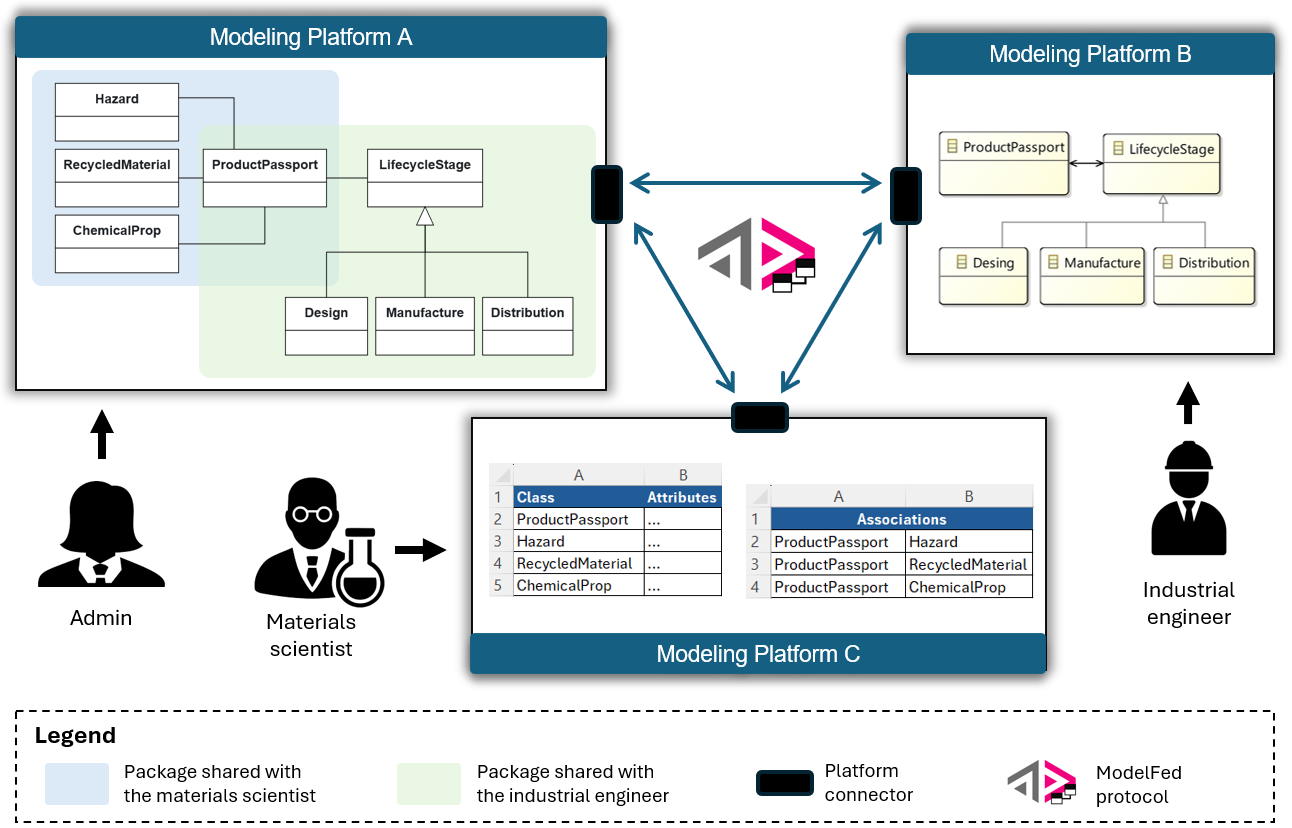
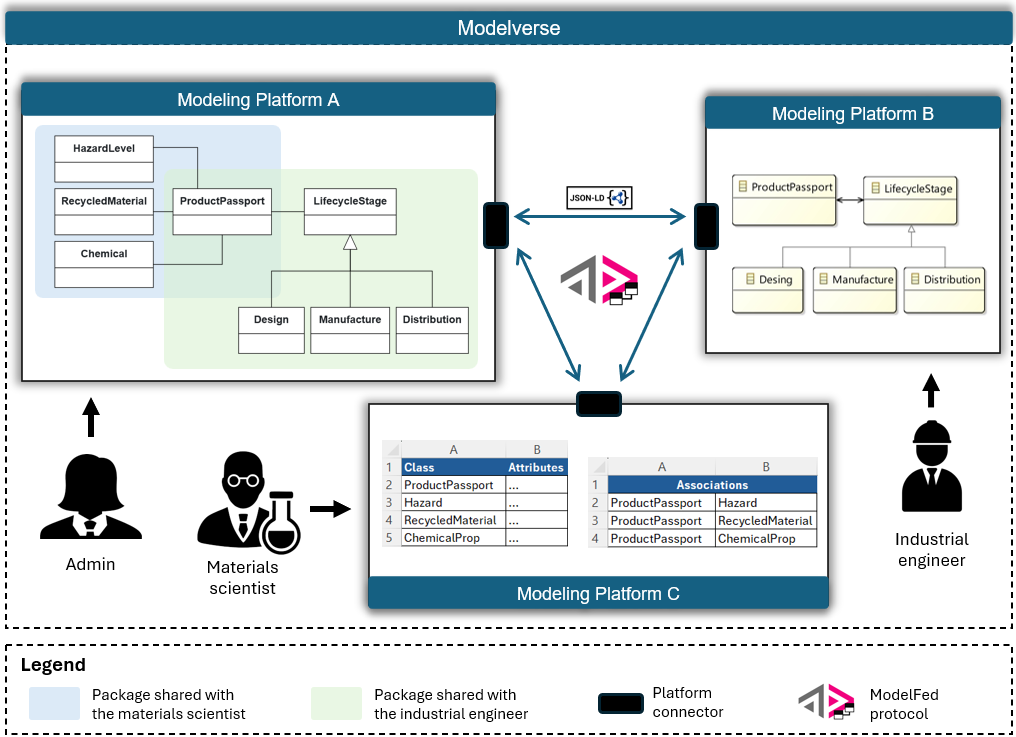
Update HazardLevel class name in the DPP domain model

diff --git a/validation/exp_1_DPP_scenario/output_model/dpp_besser_model.py b/validation/exp_1_DPP_scenario/output_model/dpp_besser_model.py
@@ -11,6 +11,9 @@ from besser.BUML.metamodel.structural import (
 # Enumerations
 # Classes
 ProductPassport = Class(name="ProductPassport")
+HazardLevel = Class(name="HazardLevel")
+RecycledMaterial = Class(name="RecycledMaterial")
+ChemicalProp = Class(name="ChemicalProp")
 LifecycleStage = Class(name="LifecycleStage")
 Design = Class(name="Design")
 Manufacture = Class(name="Manufacture")
@@ -19,21 +22,35 @@ Collect = Class(name="Collect")
 Recycle = Class(name="Recycle")
 Reparation = Class(name="Reparation")
 Distribution = Class(name="Distribution")
-Hazard = Class(name="Hazard")
-RecycledMaterial = Class(name="RecycledMaterial")
-ChemicalProp = Class(name="ChemicalProp")
 
 # ProductPassport class attributes and methods
 ProductPassport_name: Property = Property(name="name", type=StringType)
 ProductPassport_code: Property = Property(name="code", type=StringType)
 ProductPassport_UID: Property = Property(name="UID", type=StringType)
-ProductPassport.attributes={ProductPassport_code, ProductPassport_UID, ProductPassport_name}
+ProductPassport.attributes={ProductPassport_code, ProductPassport_name, ProductPassport_UID}
+
+# HazardLevel class attributes and methods
+HazardLevel_very_high: Property = Property(name="very_high", type=BooleanType)
+HazardLevel_exed_limit: Property = Property(name="exed_limit", type=BooleanType)
+HazardLevel.attributes={HazardLevel_very_high, HazardLevel_exed_limit}
+
+# RecycledMaterial class attributes and methods
+RecycledMaterial_preconsumer: Property = Property(name="preconsumer", type=StringType)
+RecycledMaterial_postconsumer: Property = Property(name="postconsumer", type=StringType)
+RecycledMaterial_renewable: Property = Property(name="renewable", type=StringType)
+RecycledMaterial.attributes={RecycledMaterial_preconsumer, RecycledMaterial_postconsumer, RecycledMaterial_renewable}
+
+# ChemicalProp class attributes and methods
+ChemicalProp_threshold: Property = Property(name="threshold", type=FloatType)
+ChemicalProp_disclosure: Property = Property(name="disclosure", type=StringType)
+ChemicalProp_composition: Property = Property(name="composition", type=StringType)
+ChemicalProp.attributes={ChemicalProp_disclosure, ChemicalProp_threshold, ChemicalProp_composition}
 
 # LifecycleStage class attributes and methods
 LifecycleStage_name: Property = Property(name="name", type=StringType)
 LifecycleStage_start: Property = Property(name="start", type=DateType)
 LifecycleStage_end: Property = Property(name="end", type=DateType)
-LifecycleStage.attributes={LifecycleStage_start, LifecycleStage_end, LifecycleStage_name}
+LifecycleStage.attributes={LifecycleStage_start, LifecycleStage_name, LifecycleStage_end}
 
 # Design class attributes and methods
 
@@ -48,28 +65,32 @@ LifecycleStage.attributes={LifecycleStage_start, LifecycleStage_end, LifecycleSt
 # Reparation class attributes and methods
 Reparation_description: Property = Property(name="description", type=StringType)
 Reparation_date_set: Property = Property(name="date_set", type=DateType)
-Reparation.attributes={Reparation_date_set, Reparation_description}
+Reparation.attributes={Reparation_description, Reparation_date_set}
 
 # Distribution class attributes and methods
 
-# Hazard class attributes and methods
-Hazard_very_high: Property = Property(name="very_high", type=BooleanType)
-Hazard_exed_limit: Property = Property(name="exed_limit", type=BooleanType)
-Hazard.attributes={Hazard_exed_limit, Hazard_very_high}
-
-# RecycledMaterial class attributes and methods
-RecycledMaterial_preconsumer: Property = Property(name="preconsumer", type=StringType)
-RecycledMaterial_postconsumer: Property = Property(name="postconsumer", type=StringType)
-RecycledMaterial_renewable: Property = Property(name="renewable", type=StringType)
-RecycledMaterial.attributes={RecycledMaterial_postconsumer, RecycledMaterial_preconsumer, RecycledMaterial_renewable}
-
-# ChemicalProp class attributes and methods
-ChemicalProp_threshold: Property = Property(name="threshold", type=FloatType)
-ChemicalProp_disclosure: Property = Property(name="disclosure", type=StringType)
-ChemicalProp_composition: Property = Property(name="composition", type=StringType)
-ChemicalProp.attributes={ChemicalProp_composition, ChemicalProp_threshold, ChemicalProp_disclosure}
-
 # Relationships
+HazardToProductPassport: BinaryAssociation = BinaryAssociation(
+    name="HazardToProductPassport",
+    ends={
+        Property(name="hazard", type=HazardLevel, multiplicity=Multiplicity(1, 1)),
+        Property(name="product_passport", type=ProductPassport, multiplicity=Multiplicity(0, 9999))
+    }
+)
+RecycledMaterialToProductPassport: BinaryAssociation = BinaryAssociation(
+    name="RecycledMaterialToProductPassport",
+    ends={
+        Property(name="product_passport", type=ProductPassport, multiplicity=Multiplicity(0, 9999)),
+        Property(name="recycled_material", type=RecycledMaterial, multiplicity=Multiplicity(1, 1))
+    }
+)
+ChemicalPropToProductPassport: BinaryAssociation = BinaryAssociation(
+    name="ChemicalPropToProductPassport",
+    ends={
+        Property(name="chemical_prop", type=ChemicalProp, multiplicity=Multiplicity(1, 1)),
+        Property(name="product_passport", type=ProductPassport, multiplicity=Multiplicity(0, 9999))
+    }
+)
 LifecycleStageToProductPassport: BinaryAssociation = BinaryAssociation(
     name="LifecycleStageToProductPassport",
     ends={
@@ -84,27 +105,6 @@ UseToReparation: BinaryAssociation = BinaryAssociation(
         Property(name="reparation", type=Reparation, multiplicity=Multiplicity(0, 9999))
     }
 )
-HazardToProductPassport: BinaryAssociation = BinaryAssociation(
-    name="HazardToProductPassport",
-    ends={
-        Property(name="hazard", type=Hazard, multiplicity=Multiplicity(1, 1)),
-        Property(name="product_passport", type=ProductPassport, multiplicity=Multiplicity(0, 9999))
-    }
-)
-RecycledMaterialToProductPassport: BinaryAssociation = BinaryAssociation(
-    name="RecycledMaterialToProductPassport",
-    ends={
-        Property(name="recycled_material", type=RecycledMaterial, multiplicity=Multiplicity(1, 1)),
-        Property(name="product_passport", type=ProductPassport, multiplicity=Multiplicity(0, 9999))
-    }
-)
-ChemicalPropToProductPassport: BinaryAssociation = BinaryAssociation(
-    name="ChemicalPropToProductPassport",
-    ends={
-        Property(name="chemical_prop", type=ChemicalProp, multiplicity=Multiplicity(1, 1)),
-        Property(name="product_passport", type=ProductPassport, multiplicity=Multiplicity(0, 9999))
-    }
-)
 
 # Generalizations
 gen_Design_LifecycleStage = Generalization(general=LifecycleStage, specific=Design)
@@ -117,7 +117,7 @@ gen_Collect_LifecycleStage = Generalization(general=LifecycleStage, specific=Col
 # Domain Model
 domain_model = DomainModel(
     name="Digital_Product_Passport",
-    types={ProductPassport, LifecycleStage, Design, Manufacture, Use, Collect, Recycle, Reparation, Distribution, Hazard, RecycledMaterial, ChemicalProp},
-    associations={LifecycleStageToProductPassport, UseToReparation, HazardToProductPassport, RecycledMaterialToProductPassport, ChemicalPropToProductPassport},
+    types={ProductPassport, HazardLevel, RecycledMaterial, ChemicalProp, LifecycleStage, Design, Manufacture, Use, Collect, Recycle, Reparation, Distribution},
+    associations={HazardToProductPassport, RecycledMaterialToProductPassport, ChemicalPropToProductPassport, LifecycleStageToProductPassport, UseToReparation},
     generalizations={gen_Design_LifecycleStage, gen_Manufacture_LifecycleStage, gen_Distribution_LifecycleStage, gen_Use_LifecycleStage, gen_Recycle_LifecycleStage, gen_Collect_LifecycleStage}
 )

diff --git a/validation/exp_1_DPP_scenario/README.md b/validation/exp_1_DPP_scenario/README.md
@@ -38,7 +38,7 @@ After the activities have been executed, download the resulting model using:
 
     $ python download_model.py
 
-The model will be saved in: [output_model/dpp_besser_model.py](/output_model/dpp_besser_model.py)
+The model will be saved in: [prototype/output_model/dpp_besser_model.py](/output_model/dpp_besser_model.py)
 
 ### 📊 Results
 
